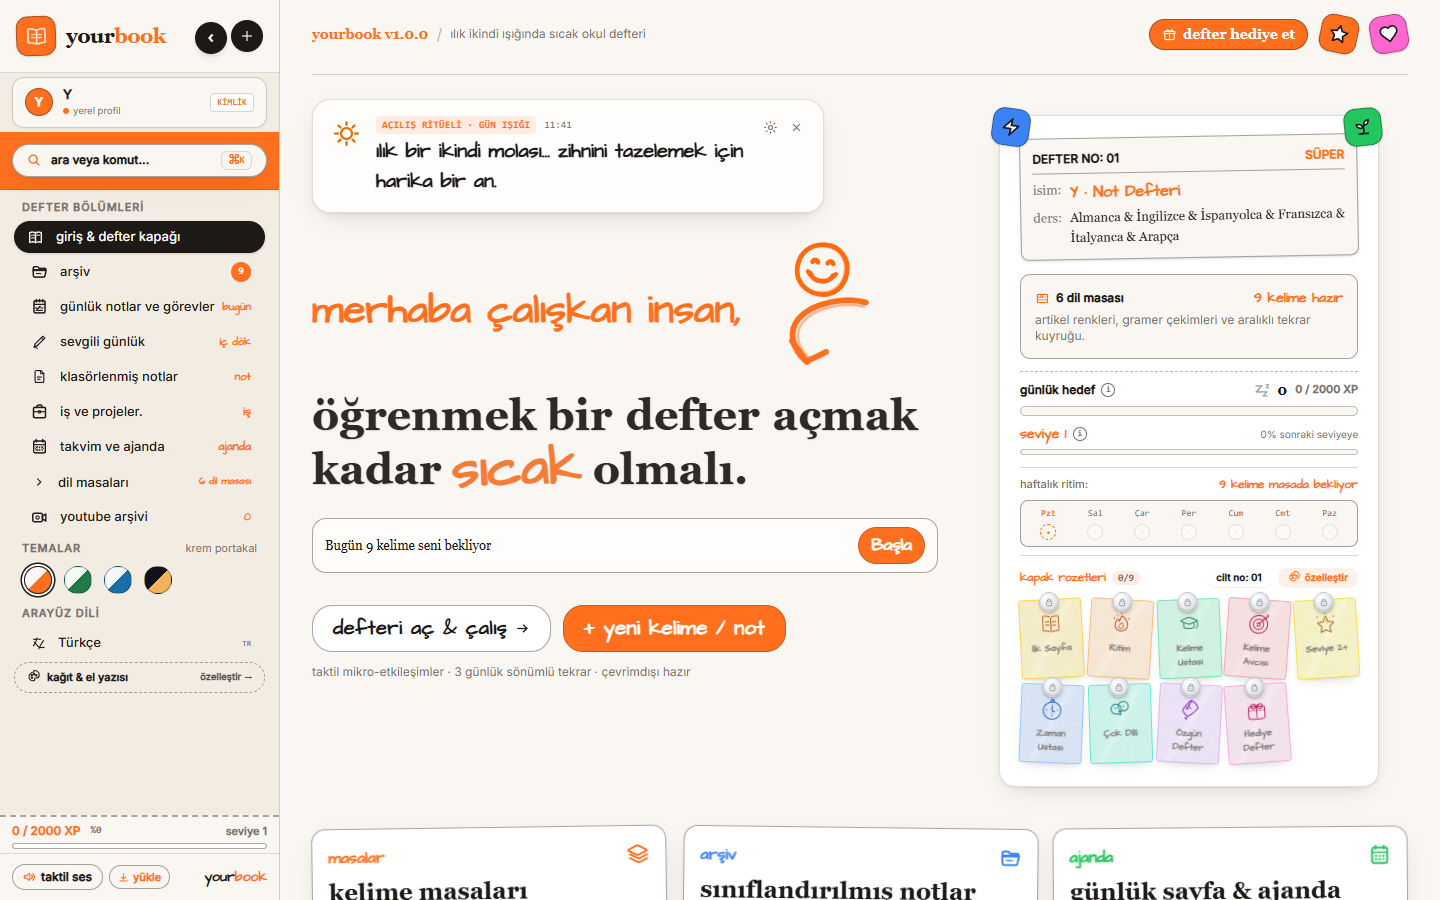
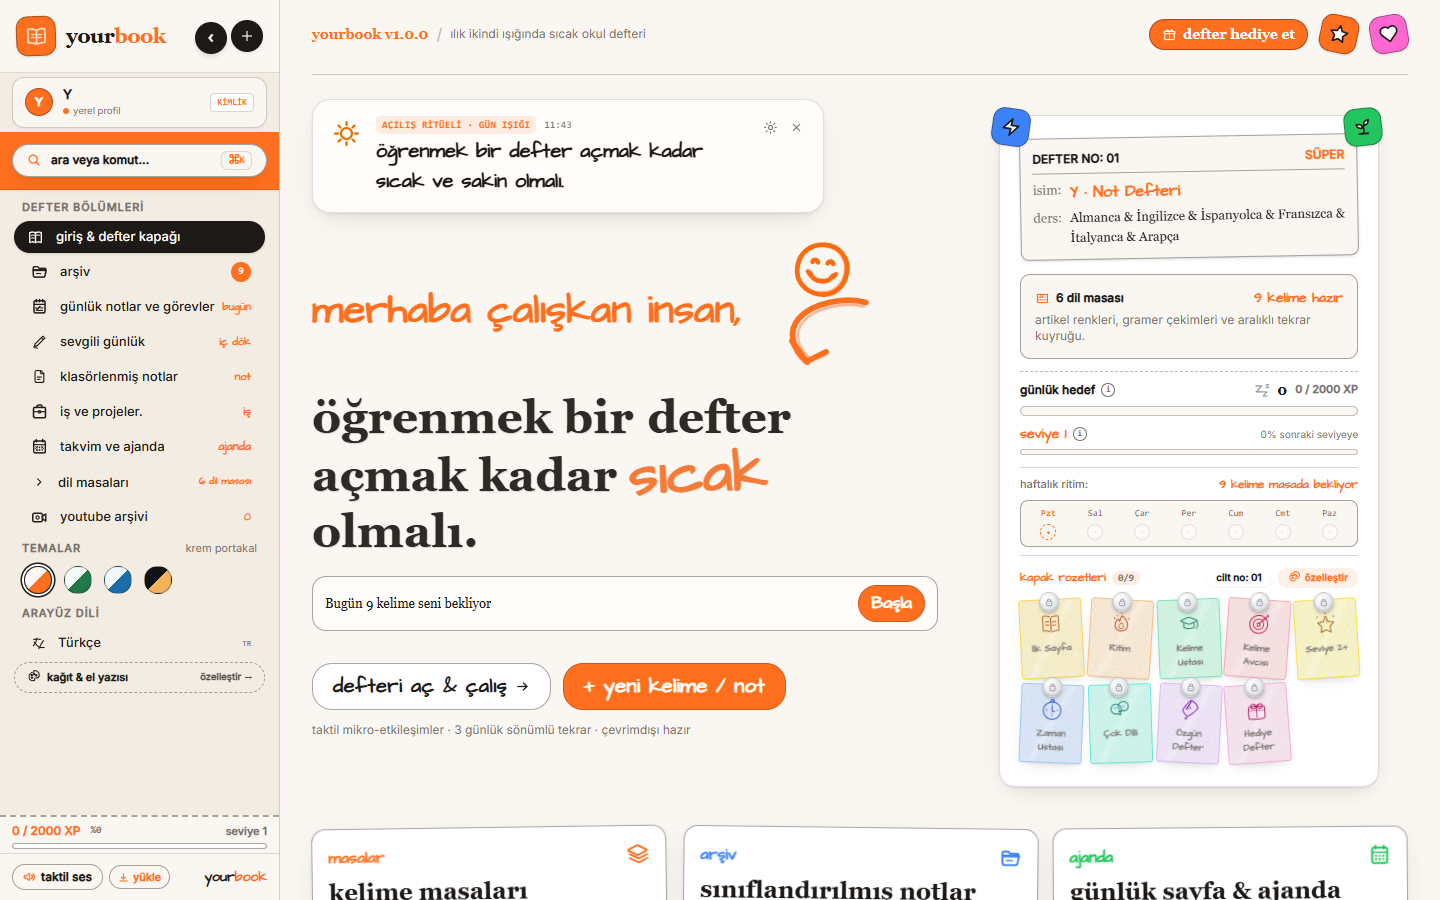
design(hero): ana baslik 46px (uc satir; sol sutun sag panelle dengelendi)

diff --git a/src/components/SuperrHero.tsx b/src/components/SuperrHero.tsx
@@ -246,7 +246,7 @@ export function SuperrHero({
           {/* Display Headline: Gelica 600, ALL LOWERCASE, Vintage Ink with slight texture feel */}
           <h1
             id="hero-headline"
-            className="font-gelica text-[34px] min-[641px]:text-[43px] font-semibold text-[var(--ink)] leading-[1.14] sm:leading-[1.1] tracking-normal text-start"
+            className="font-gelica text-[34px] min-[641px]:text-[46px] font-semibold text-[var(--ink)] leading-[1.14] sm:leading-[1.1] tracking-normal text-start"
             style={{
               textShadow: "0.5px 0.5px 1px color-mix(in srgb, var(--ink) 18%, transparent)",
               opacity: 0.94,
